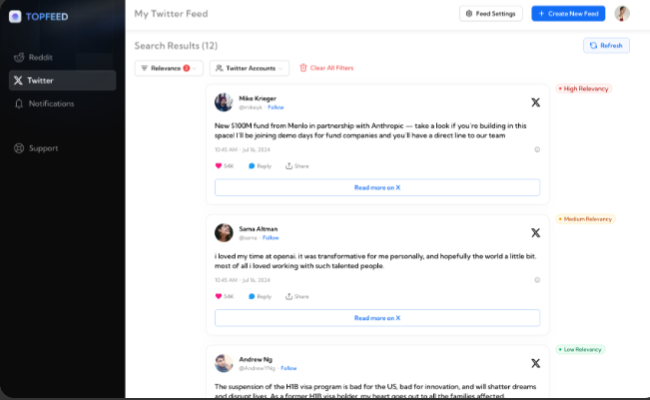
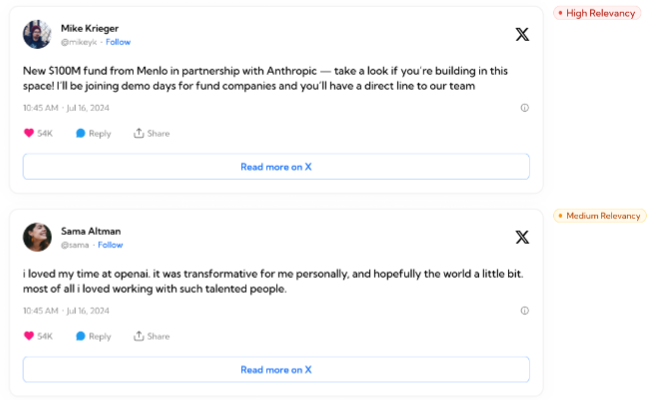
homepage push

diff --git a/src/components/FeaturesSection.jsx b/src/components/FeaturesSection.jsx
@@ -23,9 +23,9 @@ const FeaturesSection = () => {
       <div className="md:px-20 mt-20">
         <div className="md:flex justify-between md:space-x-32 items-center mb-10 mt-10">
           <div className="relative md:w-1/2 mb-5 md:mb-0">
-            <div className="relative flex justify-center rounded-lg">
+            <div className="relative flex p-3 bg-gray-800 justify-center rounded-lg">
               <Image
-                src="/images/followimage.svg"
+                src="/images/followimage(6).png"
                 width={650}
                 height={450}
                 alt="Real-Time Updates"
@@ -41,13 +41,13 @@ const FeaturesSection = () => {
                 className="text-blue-500 mr-2 w-[19px] md:w-[24px]"
                 size={24}
               />
-              <h3 className="text-lg md:text-3xl font-bold ">
+              <h3 className="text-lg md:text-3xl font-kumbh-sans-bold ">
               Reddit TopSummarizer
               </h3>
             </div>
-            <p className="mb-1 md:mb-4 text-base md:text-lg">This tool allows you to summarize discussions happening in your favorite subreddits and break them down into different topics.
+            <p className="mb-1 md:mb-4 text-base md:text-lg font-kumbh-sans-medium text-[#B8B8B8]">This tool allows you to summarize discussions happening in your favorite subreddits and break them down into different topics.
             </p>
-            <ul className="text-sm md:text-lg list-none">
+            <ul className="text-sm text-[#E6E6E6] md:text-base font-kumbh-sans-regular space-y-5 list-none">
               <li className="flex items-center mb-2">
                 <GiCheckMark className="text-blue-500 mr-2" size={20} />
                 Find out what people are discussing
@@ -68,7 +68,7 @@ const FeaturesSection = () => {
           <div className="block md:hidden relative mb-5 md:mb-0">
             <div className="relative flex justify-center  rounded-lg">
               <Image
-                src="/images/followimage2.svg"
+                src="/images/followimage(5).png"
                 width={650}
                 height={450}
                 alt="Real-Time Updates"
@@ -84,14 +84,14 @@ const FeaturesSection = () => {
                   className="text-blue-500 mr-2 w-[19px] md:w-[24px]"
                   size={24}
                 />
-                <h3 className="text-lg md:text-3xl font-bold ">
+                <h3 className="text-lg md:text-3xl font-kumbh-sans-bold ">
                 X TopFeed
                 </h3>
               </div>
-              <p className="mb-1 md:mb-4 text-base md:text-lg">
+              <p className="mb-1 md:mb-4 text-[#B8B8B8] font-kumbh-sans-medium text-base md:text-lg">
               This tool is great for getting tweets from your favorite X (Twitter) account in one single feed with a “relevancy” score to filter the best ones out of them.
               </p>
-              <ul className="text-sm md:text-lg list-none">
+              <ul className="text-sm text-[#E6E6E6] md:text-base font-kumbh-sans-regular space-y-5 list-none">
                 <li className="flex items-center mb-2">
                   <GiCheckMark className="text-blue-500 mr-2" size={20} />
                   Filter tweets with high to low relevancy
@@ -109,9 +109,9 @@ const FeaturesSection = () => {
             </div>
           </div>
           <div className="hidden md:block relative w-1/2">
-            <div className="relative md:ml-10  rounded-lg">
+            <div className="relative md:ml-10 p-3 bg-gray-800 rounded-lg">
               <Image
-                src="/images/followimage2.svg"
+                src="/images/followimage(5).png"
                 width={650}
                 height={450}
                 alt="Real-Time Updates"
@@ -123,9 +123,9 @@ const FeaturesSection = () => {
 
         <div className="md:flex justify-between md:space-x-32 items-center mb-10 mt-10">
           <div className="relative md:w-1/2 mb-5 md:mb-0">
-            <div className="relative flex justify-center rounded-lg">
+            <div className="relative flex justify-center bg-gray-800 p-3 rounded-lg">
               <Image
-                src="/images/followimage3.svg"
+                src="/images/followimage(7).png"
                 width={650}
                 height={450}
                 alt="Real-Time Updates"
@@ -141,14 +141,14 @@ const FeaturesSection = () => {
                 className="text-blue-500 mr-2 w-[19px] md:w-[24px]"
                 size={24}
               />
-              <h3 className="text-lg md:text-3xl font-bold ">
+              <h3 className="text-lg md:text-3xl font-kumbh-sans-bold ">
               X TopNotifications
               </h3>
             </div>
-            <p className="mb-1 md:mb-4 text-base md:text-lg">
+            <p className="mb-1 md:mb-4 text-base font-kumbh-sans-medium text-[#B8B8B8] md:text-lg">
             This tool sends you instant notifications about the latest tweets from your favorite X accounts, so you don&apos;t miss out on any of it.
             </p>
-            <ul className="text-sm md:text-lg list-none">
+            <ul className="text-sm text-[#E6E6E6] md:text-base font-kumbh-sans-regular space-y-5 list-none">
               <li className="flex items-center mb-2">
                 <GiCheckMark className="text-blue-500 mr-2" size={20} />
                 Connects with WhatsApp & Telegram

diff --git a/src/components/HeroSection.jsx b/src/components/HeroSection.jsx
@@ -44,7 +44,7 @@ const HeroSection = () => {
         &nbsp;FREE 14-day trial
       </div>
       <div className=" w-full h-full mx-auto flex justify-center mt-10">
-        <Image src="/images/mainSection.svg" height={1300} width={1300} />
+        <Image src="/images/mainSection(1).png" height={1300} width={1300} />
       </div>
 
       <div className="">
